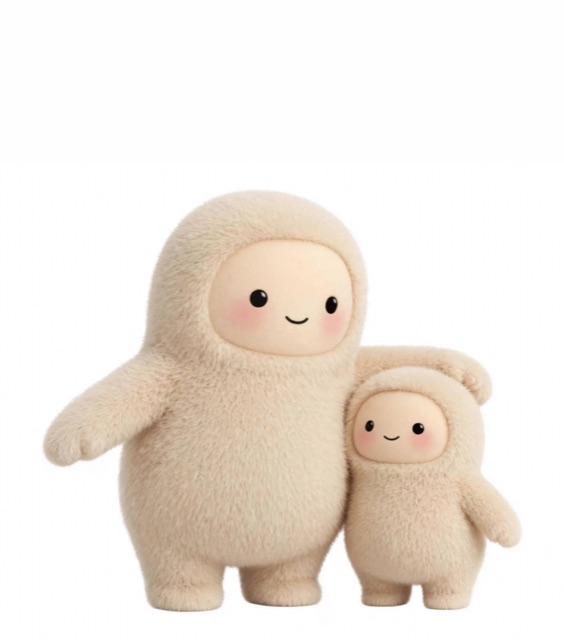
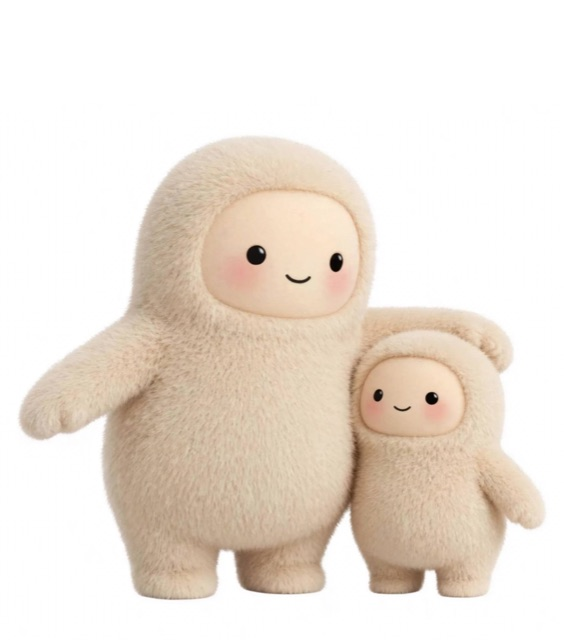
Plan card: the shield pair fills its frame like the other two
shield.png is wider than tall, so set at its own size on the shared 1440 x
1632 canvas the pair filled about 85% of the width and 66% of the height, and
looked small beside the single figure in the other two pictures, mostly at
the 112 px phone size. It is now scaled 1.1x first: the pair, both whole,
fills 94% of the width and 73% of the height, centered, and the picture runs
past the canvas's sides and bottom so only the top is filled, faded in. Same
export (564 x 640, JPEG at 82), 43 KB.

Changed region(s): [[0.0301, 0.1875, 0.9645, 0.9688]]

diff --git a/components/build/PlanCard.tsx b/components/build/PlanCard.tsx
@@ -18,9 +18,10 @@ export type PlanArt = "present" | "building" | "shield";
 
 /**
  * The owner's mascot pictures (Oct 31), web-sized in public/muse/. present.png and building.png are 1440 x 1632.
- * shield.png is 1920 x 1280, set on the same 1440 x 1632 canvas in its own white (the pair centered, their feet on the
- * others' ground line), so all three swap in one box. Then `sips -s format jpeg -s formatOptions 82 -Z 640`: 564 x 640,
- * about 47, 50 and 38 KB, a little over twice the card's widest picture (240 px).
+ * shield.png is 1920 x 1280, scaled 1.1x and set on the same 1440 x 1632 canvas in its own white (the pair centered and
+ * whole, 94% of the width and 73% of the height, like the single figure in the other two), so all three swap in one box.
+ * Then `sips -s format jpeg -s formatOptions 82 -Z 640`: 564 x 640, about 47, 50 and 43 KB, a little over twice the
+ * card's widest picture (240 px).
  */
 export const PLAN_ART: Record<PlanArt, string> = {
   present: "/muse/muse-present.jpg",
@@ -76,7 +77,6 @@ export function planCardState(room: Pick<RoomState, "status" | "segments">): { b
   return art ? { brief: seg.brief, art, step: seg.key } : null;
 }
 
-export function PlanCard({
 /**
  * While the brief is being written, fetches the pictures the card opens with, so the mascot is there when the card fades
  * in instead of popping in after it. Called while the room renders (react-dom's preload dedupes). A change passes
@@ -88,6 +88,7 @@ export function preloadPlanArt(status: BuildStatus, isRefine: boolean): void {
   preload(PLAN_ART.building, { as: "image", fetchPriority: "low" });
 }
 
+export function PlanCard({
   brief,
   art,
   running,
